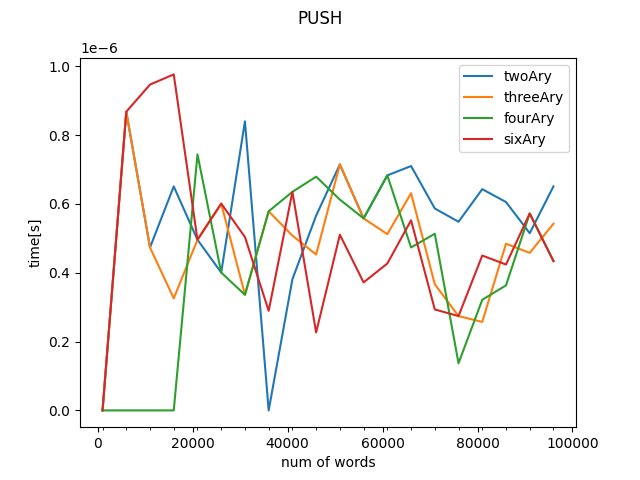
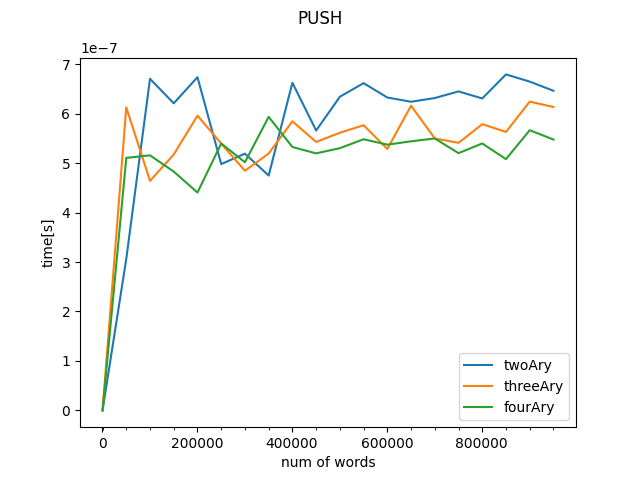
fixed fixes

diff --git a/main.py b/main.py
@@ -19,7 +19,7 @@ def measure_time_push(my_heap: twoAry | threeAry | fourAry, \
         gc.disable()
         start = time.process_time()
         for __ in range(numbers):
-            my_heap.push(randint(0, RANGE_OF_NUMERS))
+            my_heap.push(randint(0, RANGE_OF_NUMERS*10))
         stop = time.process_time()
         if gc_old: gc.enable()
         sum_time += (stop-start)
@@ -54,7 +54,7 @@ def main():
     y_list_threeAry = []
     y_list_fourAry = []
 
-    for i in range(1000, MAX_NUM_OF_NUMBERS+1, INTERVAL):
+    for i in range(1000, MAX_NUM_OF_NUMBERS*10+1, INTERVAL*10):
         x_list.append(i)
         y_list_twoAry.append(measure_time_push(heap_twoAry, NUM_OF_ITERATIONS, i))
         y_list_threeAry.append(measure_time_push(heap_threeAry, NUM_OF_ITERATIONS, i))
